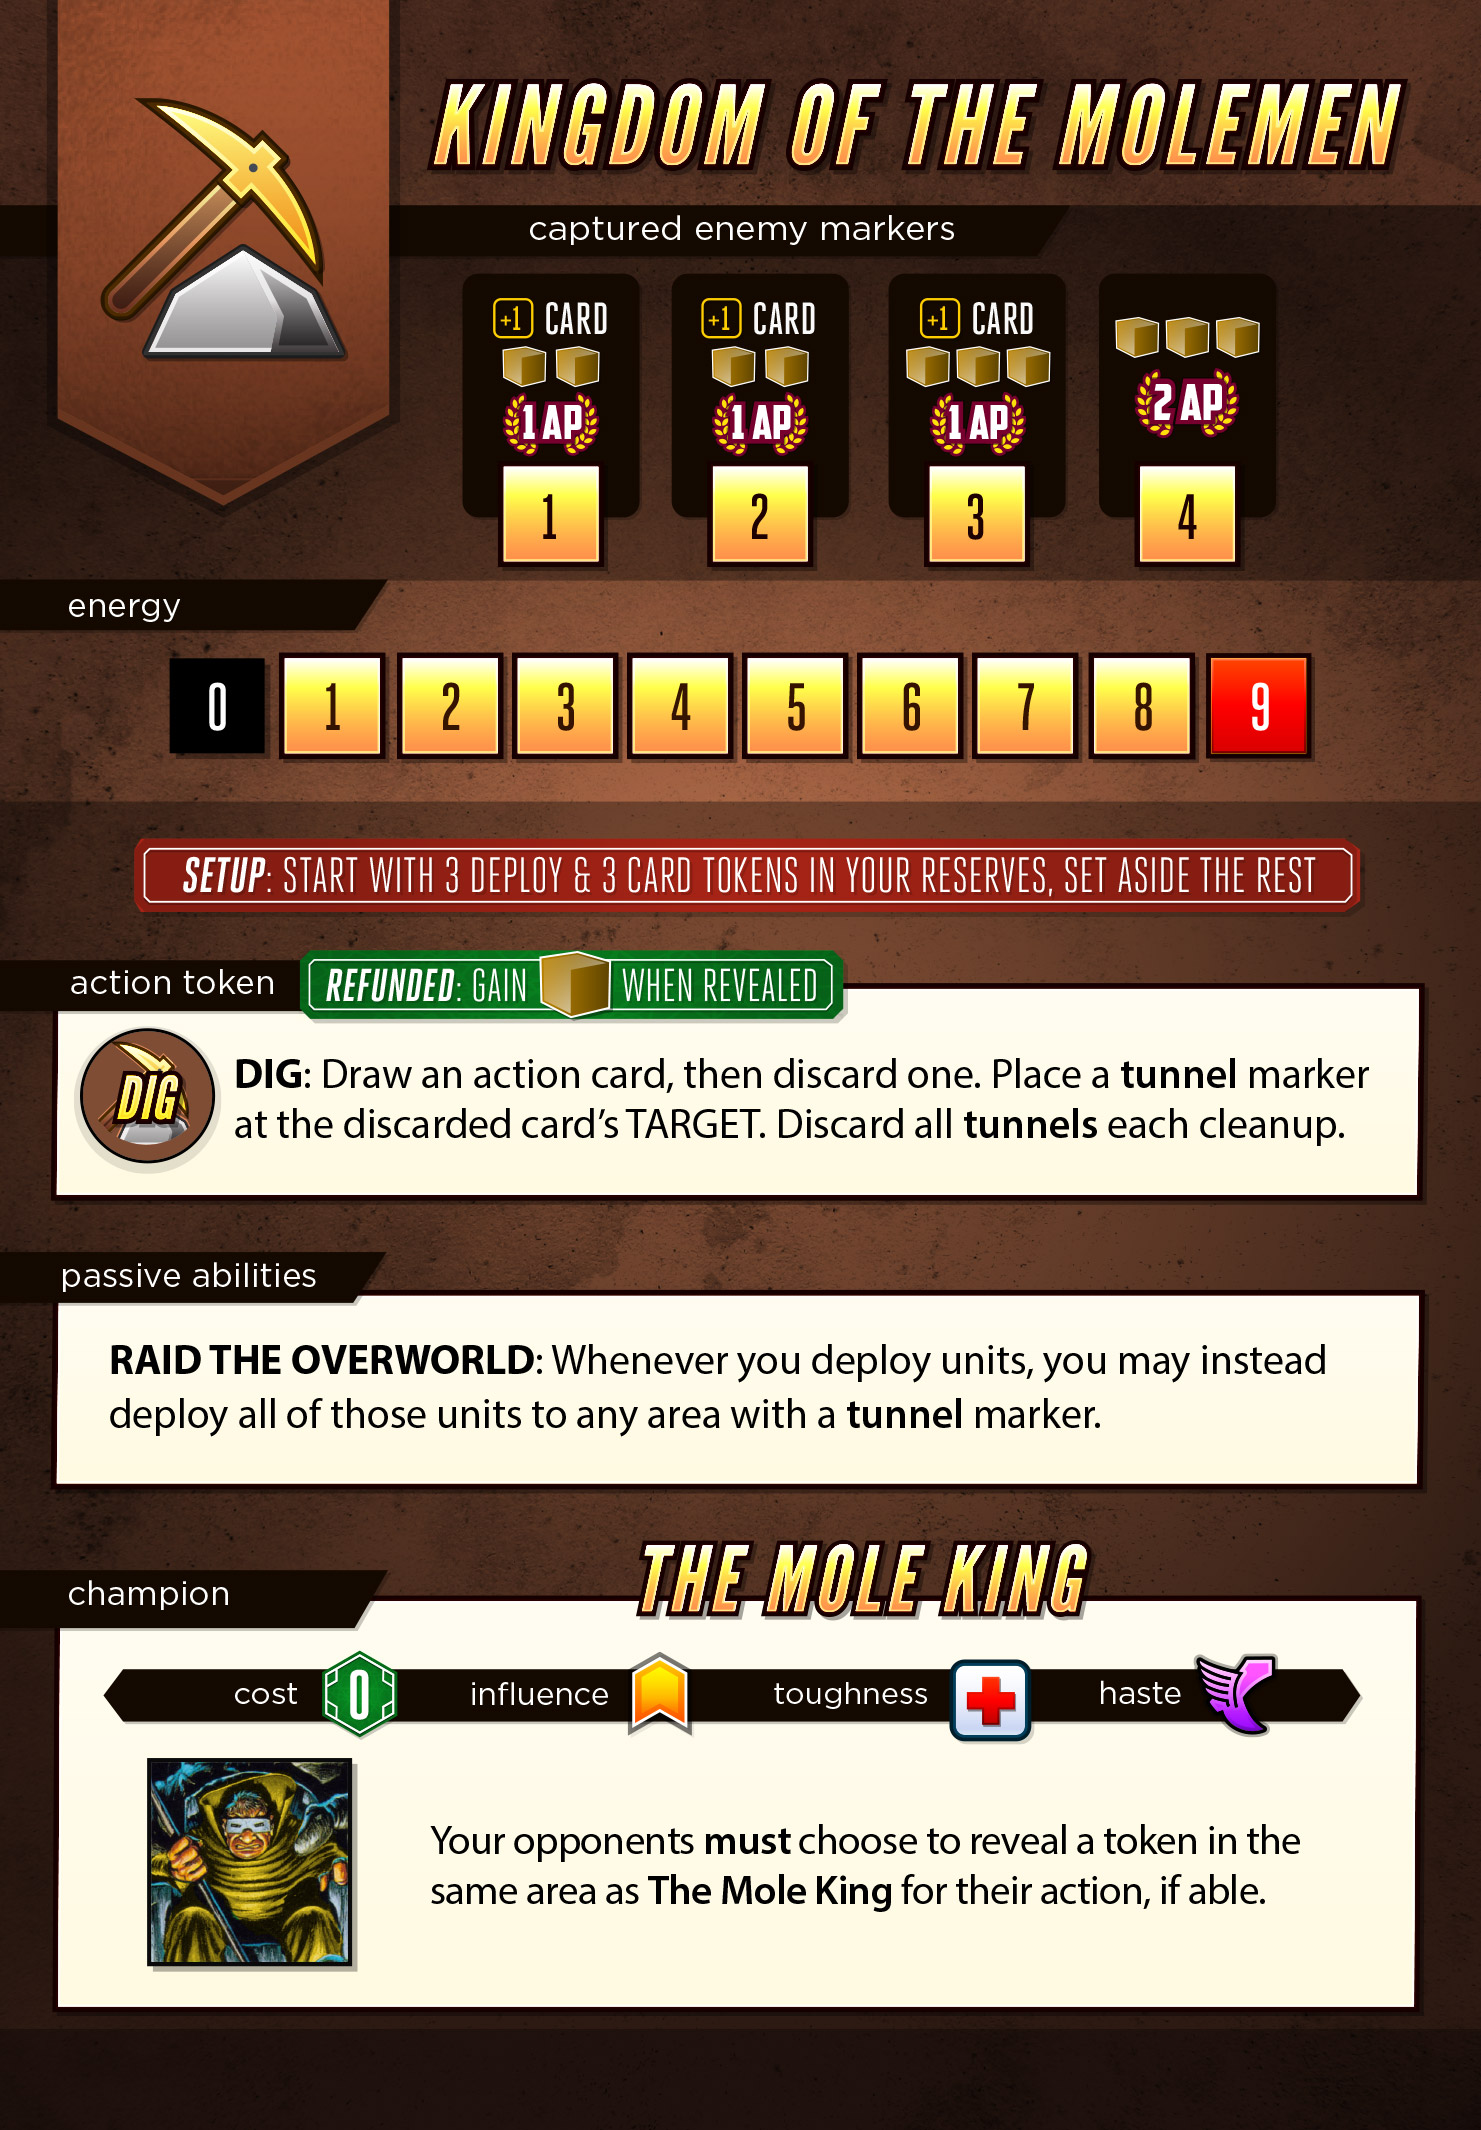
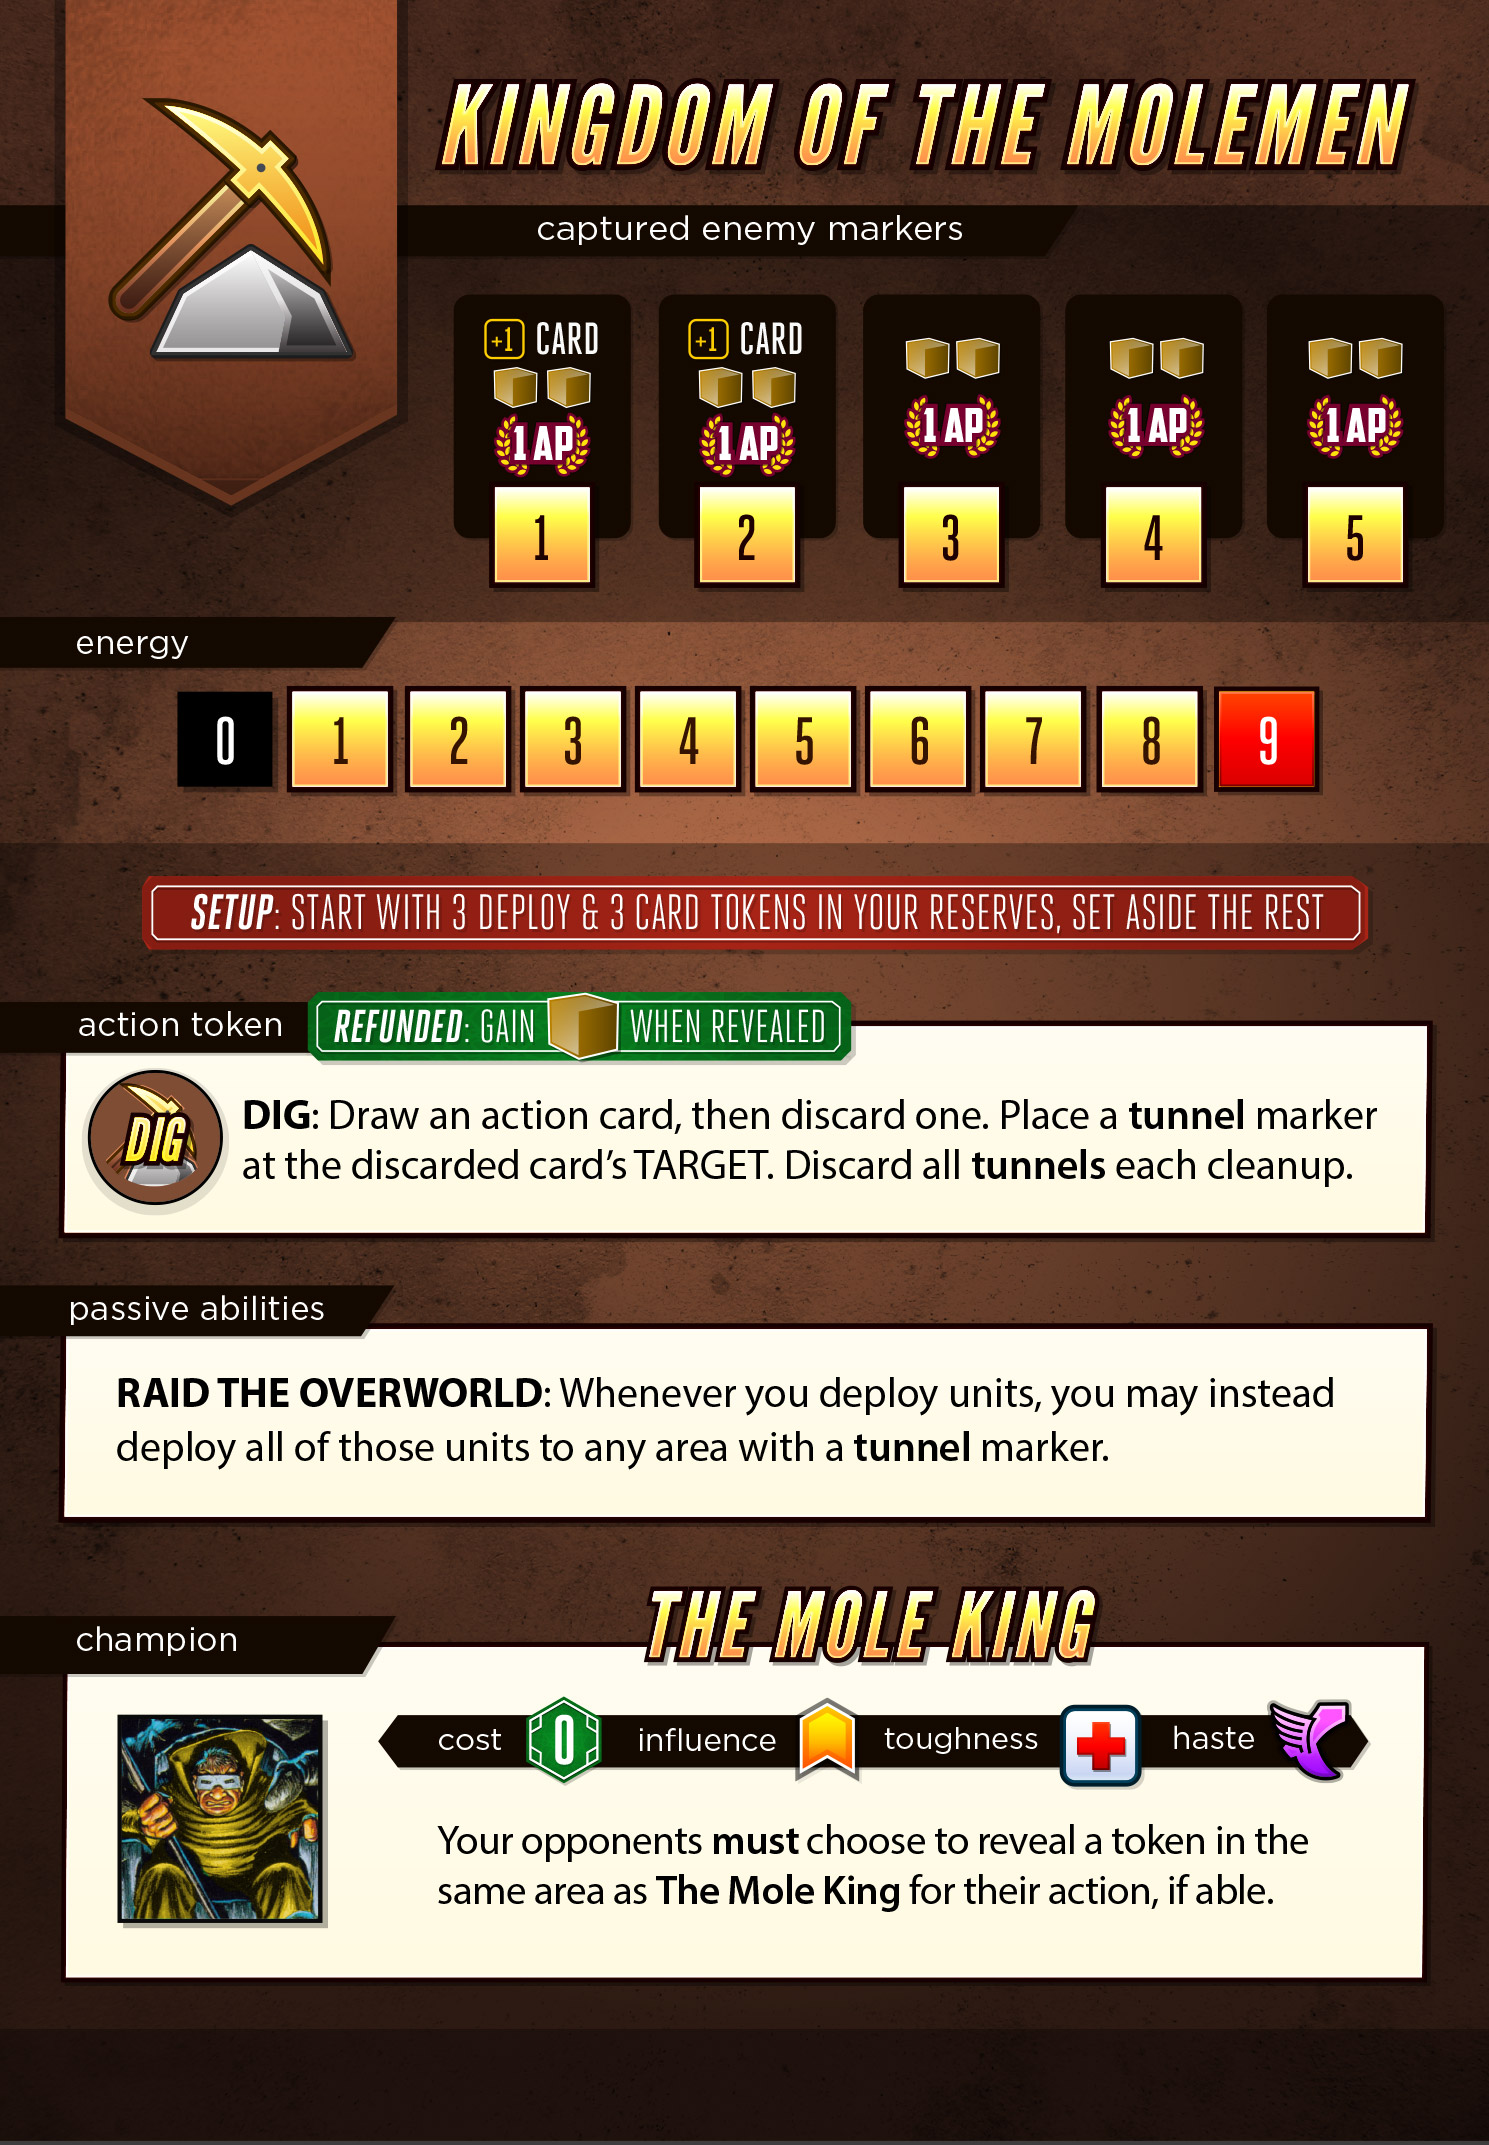
MOLEMEN: roll back token, but increase capture rewards and make boss more fluid

diff --git a/server/classes/factions/mixins/controlsAreas.js b/server/classes/factions/mixins/controlsAreas.js
@@ -88,6 +88,10 @@ let obj = {
         // if our reward is resources, gain them and return
         if( prop === 'resources' ) return this.gainResources( value );
 
+        if( this.game().data?.options?.fastCapture && prop === 'maxEnergy') return this.gainResources( 2 );
+
+        if( this.game().data?.options?.fastCapture && prop === 'cardDraw') return this.drawCards( 2 );
+
         // otherwise use the prop name to increase the matching property on our data object
         this.data[prop] += value;
     }

diff --git a/server/classes/factions/Molemen.js b/server/classes/factions/Molemen.js
@@ -16,8 +16,9 @@ class Molemen extends Faction {
         this.capturedRewards = [
             { ap : 1, cardDraw : 1, resources: 2 },
             { ap : 1, cardDraw : 1, resources: 2 },
-            { ap : 1, cardDraw : 1, resources: 3 },
-            { ap : 2, resources: 3 },
+            { ap : 1, resources: 2 },
+            { ap : 1, resources: 2 },
+            { ap : 1, resources: 2 },
         ];
 
         //data

diff --git a/server/classes/Game.js b/server/classes/Game.js
@@ -138,6 +138,7 @@ class Game {
             expansionCards: false,
             openMode: false,
             playtestMode: false,
+            fastCapture: false,
             //tokenLayaway: false,
             //ActivatedTokenCombat: false,
             //tokenLayawayLimit: false,
